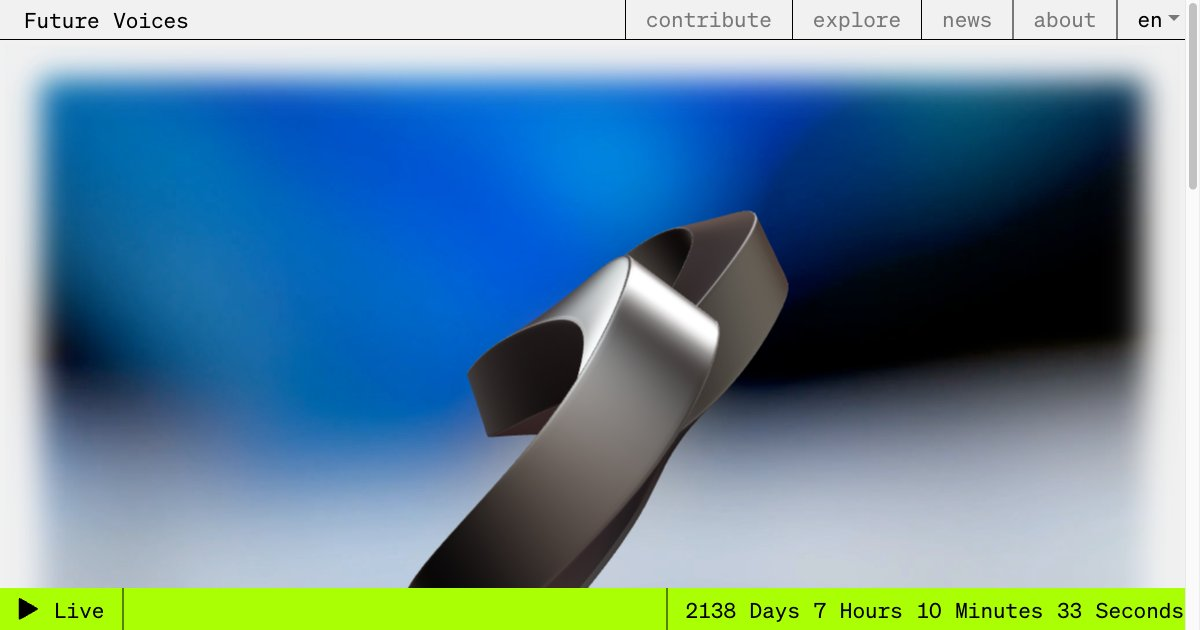
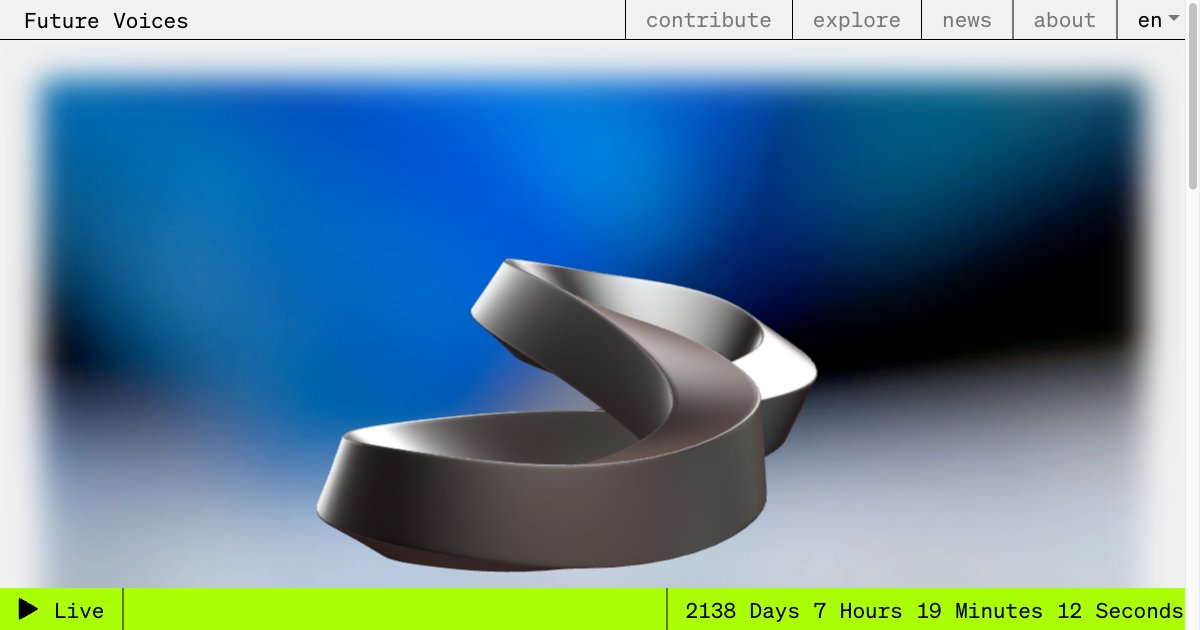
Landing page: flat 3D ring, new preview image
moebius.fbx stores the ring tilted. Rotate its measured plane normal to
+Y so the auto-rotation turns it like a carousel, and lift the camera a
little. The preview image shows the flat ring.

Changed region(s): [[0.2467, 0.1508, 0.9558, 0.9349], [0.8633, 0.9651, 0.925, 0.9952], [0.7708, 0.9651, 0.8017, 0.9952]]

diff --git a/client/components/index/moebius.vue b/client/components/index/moebius.vue
@@ -25,7 +25,8 @@ import {
   MeshMatcapMaterial,
   Mesh,
   Color,
-  TextureLoader
+  TextureLoader,
+  Vector3
 } from 'three';
 
 import { OrbitControls } from 'three/examples/jsm/controls/OrbitControls.js';
@@ -73,7 +74,8 @@ export default {
         1000
       );
 
-      this.camera.position.set(0, 0, 100);
+      // slightly from above, so the flat ring reads as a ring while it turns
+      this.camera.position.set(0, 35, 95);
       this.camera.lookAt(0, 0, 0);
 
       this.scene = new Scene();
@@ -135,6 +137,14 @@ export default {
           that.mData.moebius.scale,
           that.mData.moebius.scale,
           that.mData.moebius.scale
+        );
+
+        // The model's ring plane is tilted in moebius.fbx (normal measured with
+        // a PCA of its vertices). Turn that normal to +Y so the ring lies flat
+        // and the auto-rotation turns it like a carousel.
+        object.quaternion.setFromUnitVectors(
+          new Vector3(-0.52, 0.65, -0.555).normalize(),
+          new Vector3(0, 1, 0)
         );
 
         that.scene.add(object);
